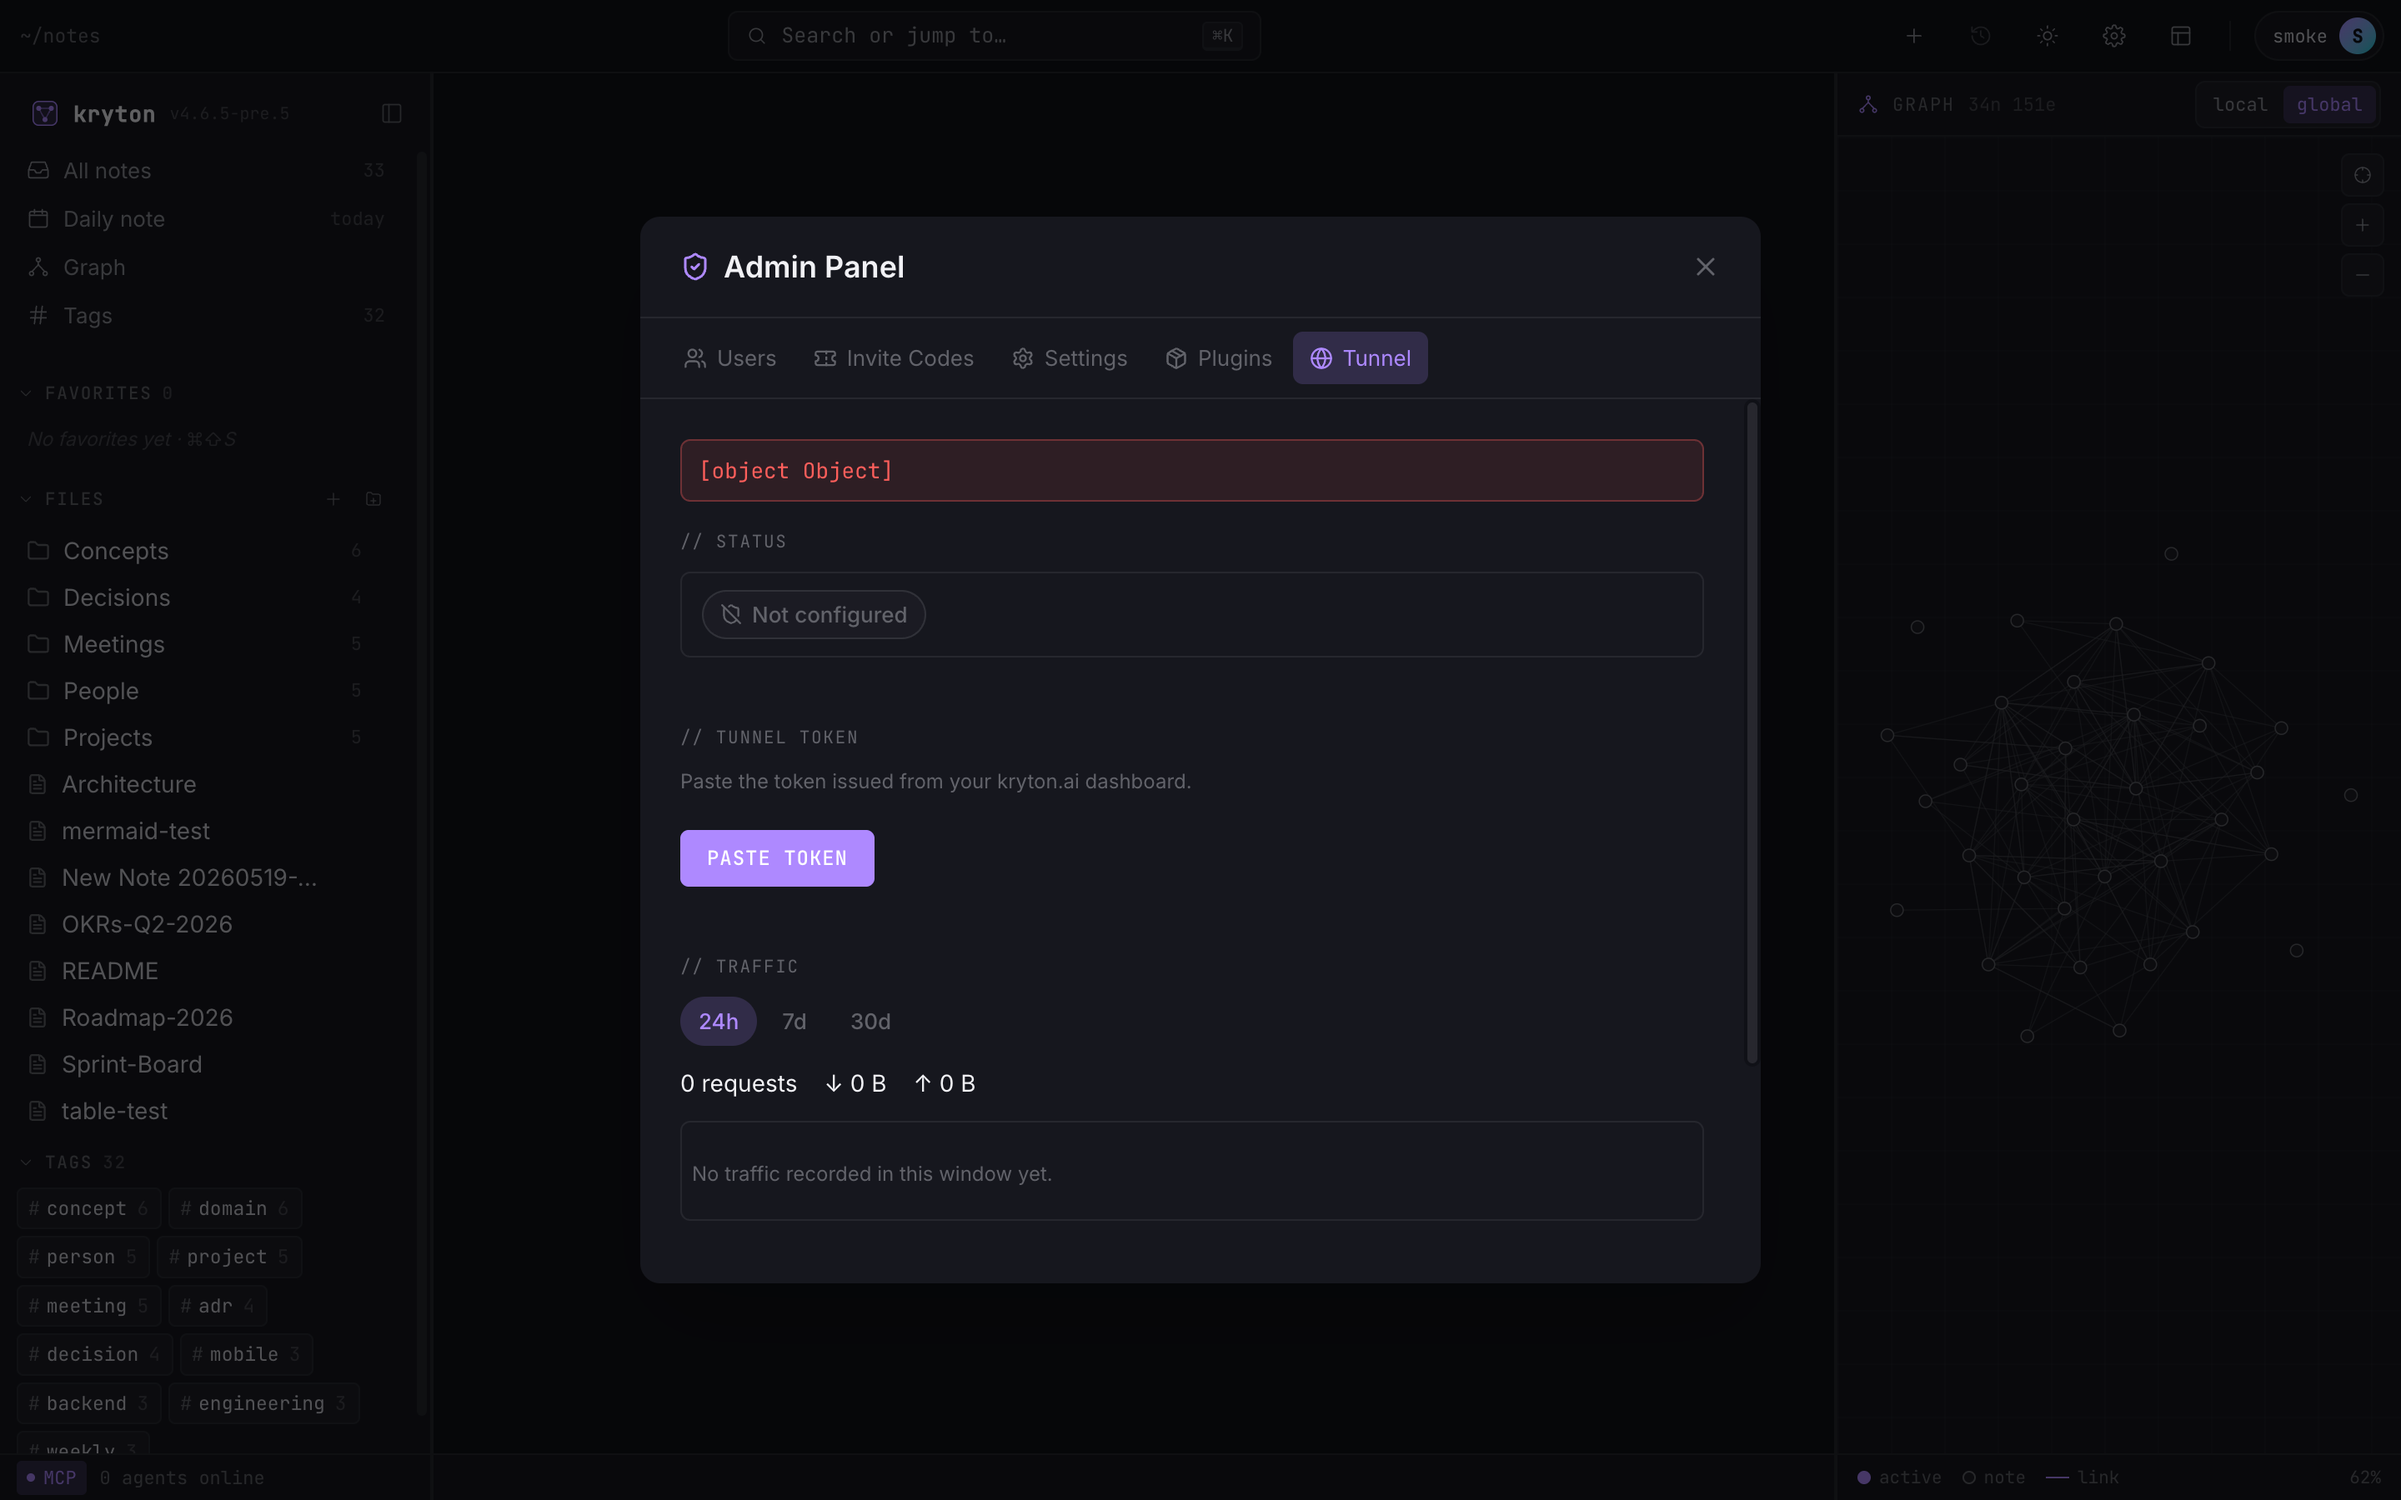
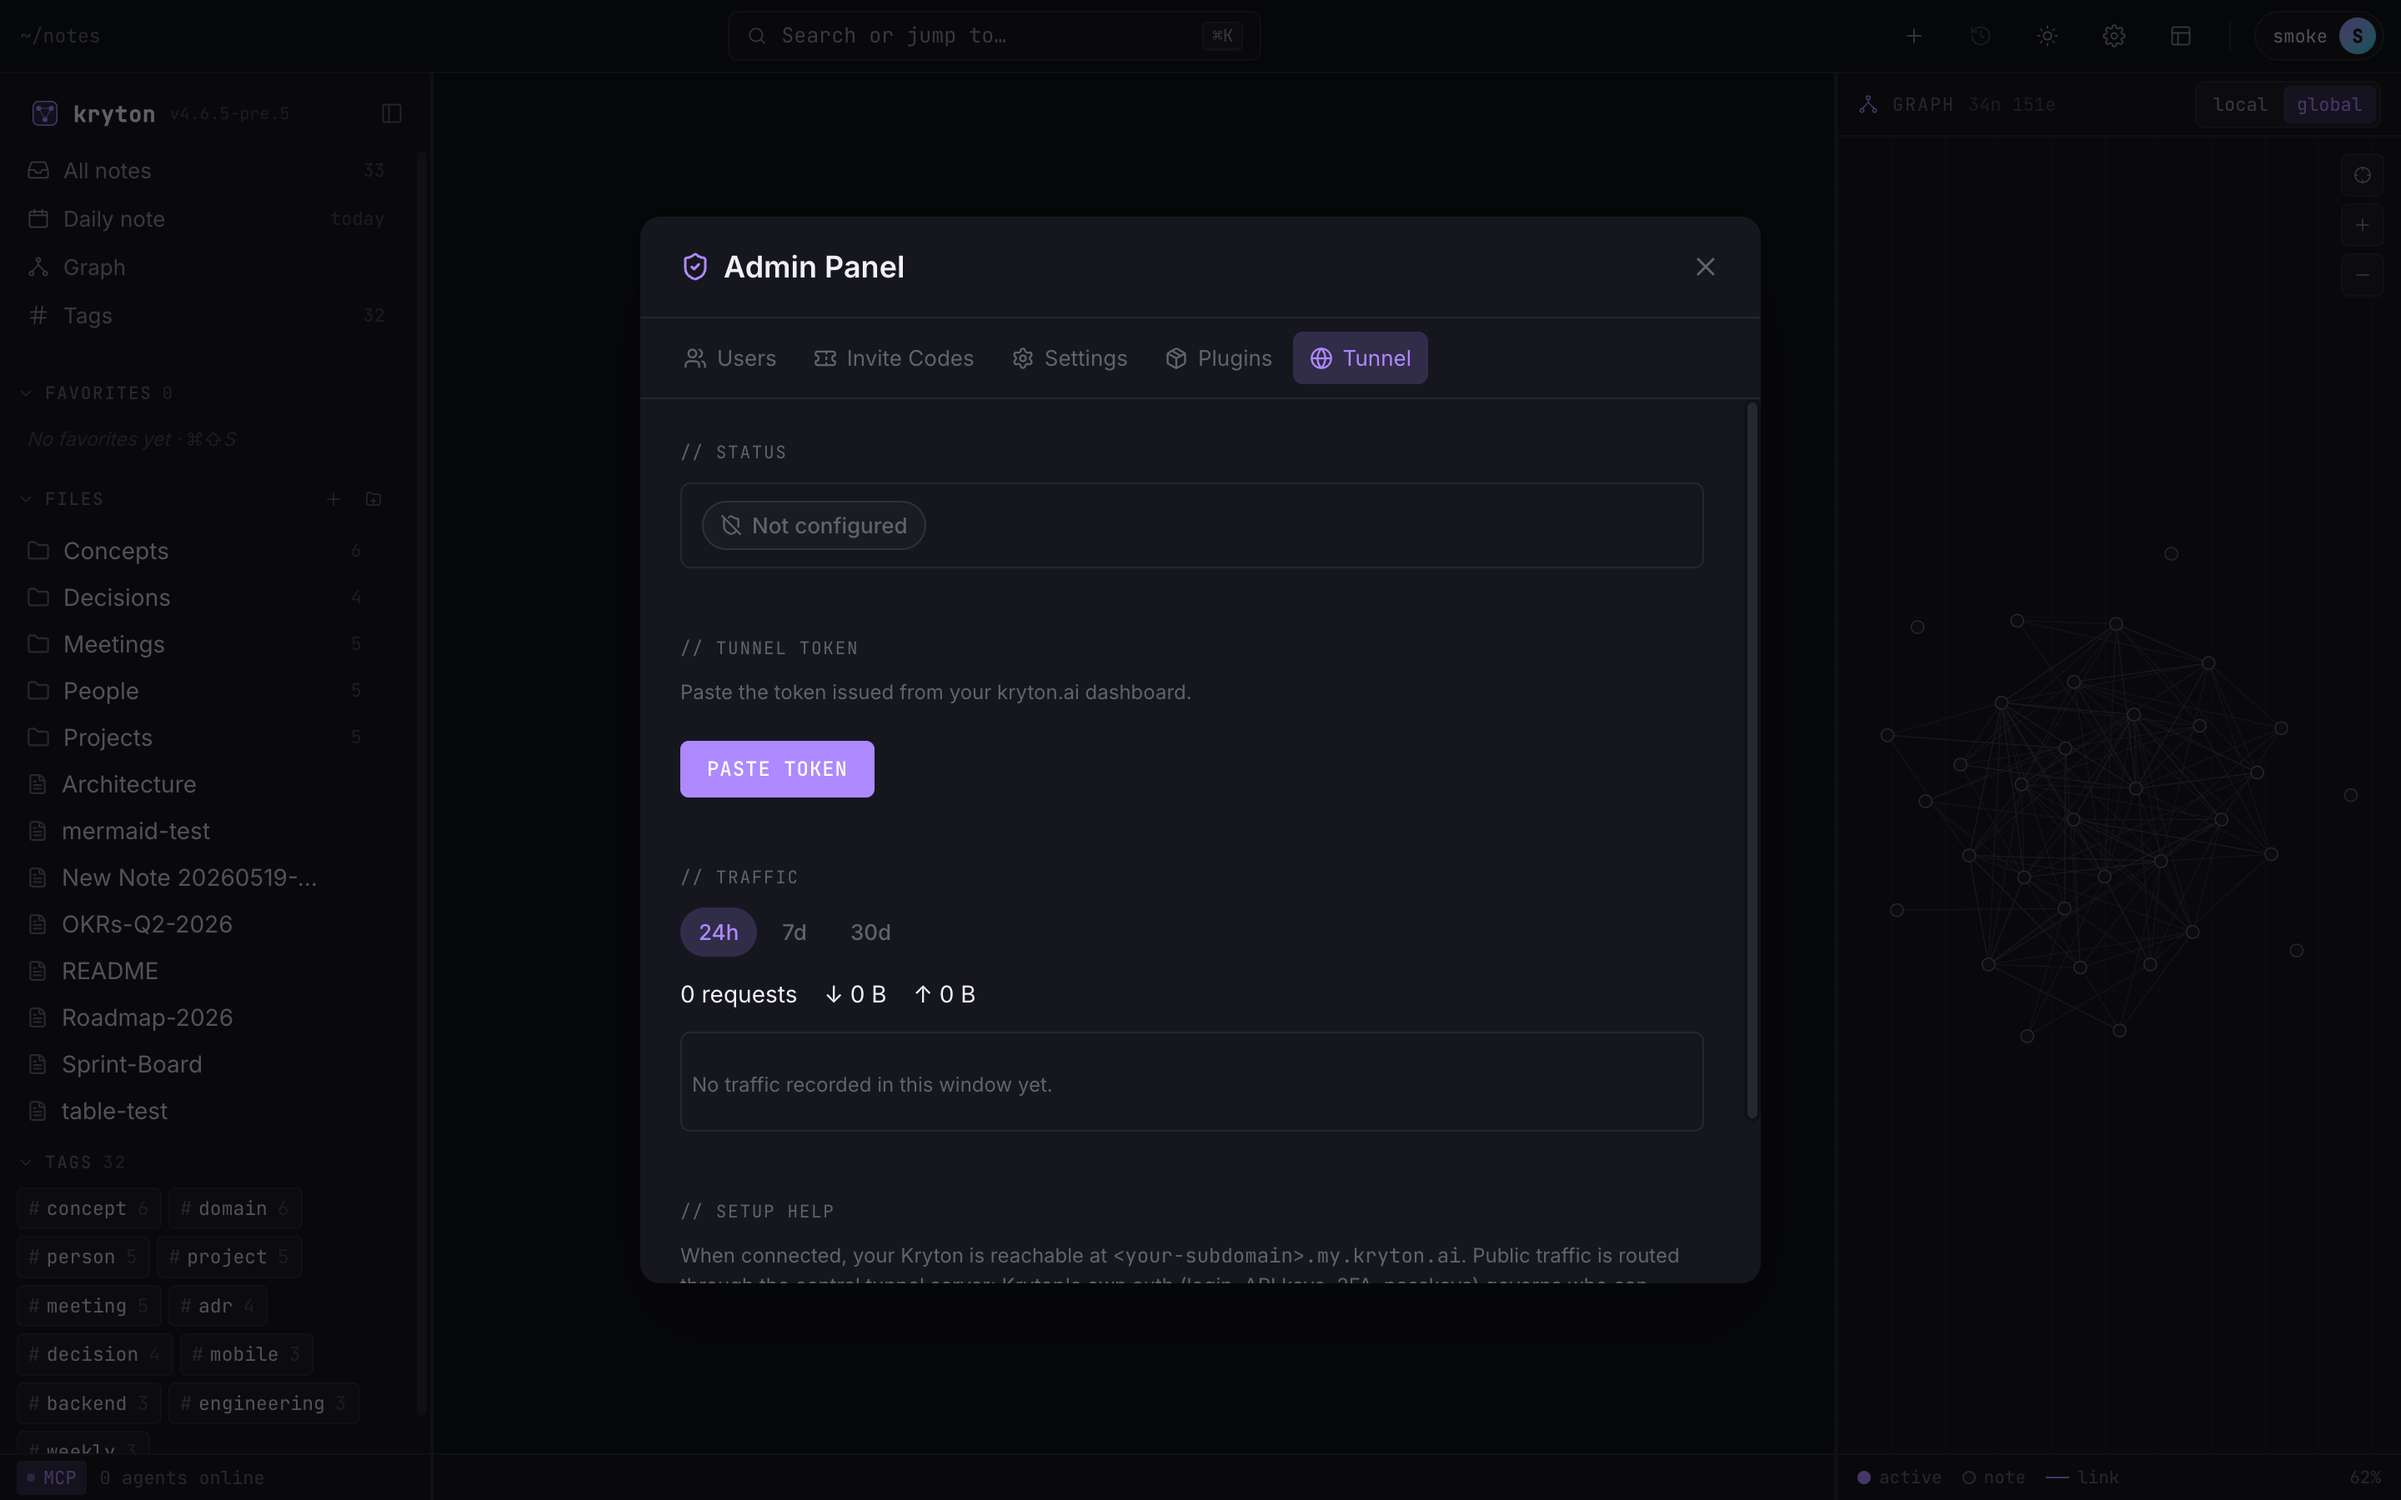
fix(server,client): meaningful error messages + sane rate-limit defaults
Two related issues surfaced by a tunnel-tab screenshot showing a red
'[object Object]' banner.

client/lib/api.ts:
  The server wraps errors as { error: { code, message, details? } }
  per plugins/errors.ts. The client did 'new Error(err.error)' which
  stringifies the inner object to '[object Object]'. Pull err.error.message
  (or fallback to err.error / err.message / statusText) so the user
  sees the actual error text.

server/plugins/rate-limit.ts:
  - Skip rate-limit registration entirely in non-production. Hot reload,
    screenshot tooling, and rapid-iteration loops were tripping the
    identity preset within seconds.
  - Bump identityRateLimit from 10/min to 60/min for production. A small
    team behind one NAT shouldn't share a 10/min auth budget when six
    people refresh during an outage.

Changed region(s): [[0.2812, 0.4044, 0.4062, 0.7467], [0.2812, 0.28, 0.375, 0.3733], [0.2812, 0.7778, 0.3438, 0.8089]]

diff --git a/packages/client/src/lib/api.ts b/packages/client/src/lib/api.ts
@@ -183,9 +183,31 @@ export async function request<T>(url: string, options?: RequestInit): Promise<T>
   });
   if (!res.ok) {
     const err = await res.json().catch(() => ({ error: res.statusText }));
-    throw new Error(err.error || res.statusText);
+    throw new Error(extractErrorMessage(err, res.statusText));
   }
   return res.json();
+}
+
+/**
+ * Pulls a human-readable string out of whatever shape the server emitted.
+ * Handles three known shapes:
+ *  - structured: { error: { code, message, details? } }   (the canonical shape from plugins/errors.ts)
+ *  - simple:     { error: "string" }
+ *  - legacy:     { message: "string" }
+ * Falls back to the HTTP status text.
+ */
+function extractErrorMessage(body: unknown, fallback: string): string {
+  if (body && typeof body === "object") {
+    const b = body as { error?: unknown; message?: unknown };
+    if (b.error && typeof b.error === "object") {
+      const inner = b.error as { message?: unknown; code?: unknown };
+      if (typeof inner.message === "string") return inner.message;
+      if (typeof inner.code === "string") return inner.code;
+    }
+    if (typeof b.error === "string") return b.error;
+    if (typeof b.message === "string") return b.message;
+  }
+  return fallback;
 }
 
 export const api = {
@@ -287,7 +309,7 @@ export const api = {
     }).then(async (res) => {
       if (!res.ok) {
         const err = await res.json().catch(() => ({ error: res.statusText }));
-        throw new Error(err.error || res.statusText);
+        throw new Error(extractErrorMessage(err, res.statusText));
       }
       return res.json();
     });

diff --git a/packages/server/src/plugins/rate-limit.ts b/packages/server/src/plugins/rate-limit.ts
@@ -7,6 +7,12 @@ interface RateLimitOptions {
 }
 
 export const rateLimitPlugin = fp<RateLimitOptions>(async (app, { config }) => {
+  // In development the rate limiter is more friction than protection:
+  // hot-reloads, screenshot tooling, and rapid-iteration loops trip it.
+  // Production still uses the configured global limit.
+  if (config.NODE_ENV !== "production") {
+    return;
+  }
   await app.register(rateLimit, {
     global: true,
     max: config.RATE_LIMIT_MAX,
@@ -14,5 +20,13 @@ export const rateLimitPlugin = fp<RateLimitOptions>(async (app, { config }) => {
   });
 }, { name: "rate-limit" });
 
-/** Stricter rate limit preset for identity routes (login, signup, reset). */
-export const identityRateLimit = { max: 10, timeWindow: "1 minute" } as const;
+/**
+ * Stricter rate-limit preset applied to identity routes (login, signup,
+ * password reset). Production-only — the plugin above no-ops in dev, so
+ * the per-route preset is effectively unenforced there.
+ *
+ * 60 / minute / IP balances brute-force protection against small teams
+ * behind a single NAT — six members hammering refresh during an outage
+ * shouldn't all share a 10 / minute budget.
+ */
+export const identityRateLimit = { max: 60, timeWindow: "1 minute" } as const;
